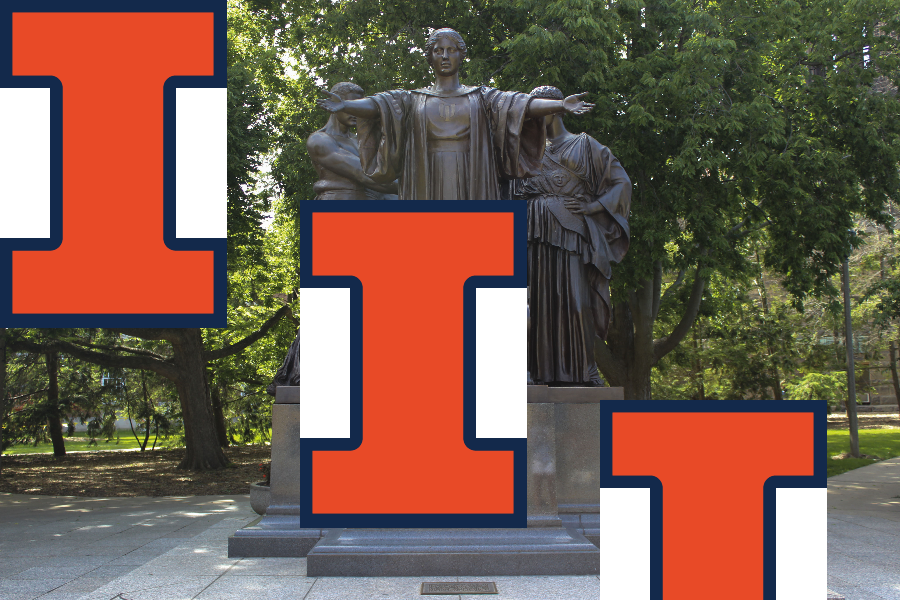
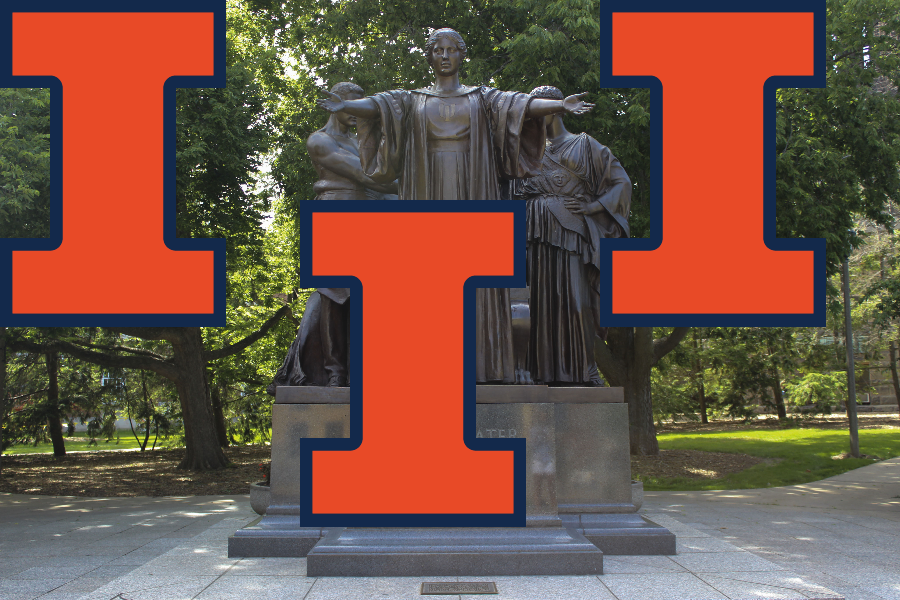
l

diff --git a/mp_stickers/StickerSheet.cpp b/mp_stickers/StickerSheet.cpp
@@ -88,11 +88,29 @@ const StickerSheet & 	StickerSheet::operator= (const StickerSheet &other){
   return *this;
 }
 void 	StickerSheet::changeMaxStickers(unsigned max){
-  Image * copyArr = new Image[imageArrSize];
-  if(int(max)<imageArrSize){
+  Image * newimageArr = new Image[max];
+  int * newxPosition = new int[max];
+  int * newyPosition = new int[max];
+  for(unsigned i=0; i<max; i++){
+    newimageArr[i] = imageArr[i];
+    newxPosition[i] = xPosition[i];
+    newyPosition[i] = yPosition[i];
+  }
+
+  delete [] imageArr;
+  delete [] xPosition;
+  delete [] yPosition;
+
+  imageArr= newimageArr;
+  xPosition = newxPosition;
+  yPosition = newyPosition;
+
+
+  /*if(int(max)<imageArrSize){
     for(int i = 0; i<int(max); i++){
       copyArr[i] = imageArr[i];
     }
+    delete [] imageArr;
     imageArr = new Image[max];
     for(int i = 0; i<int(max); i++){
         imageArr[i] = copyArr[i];
@@ -109,7 +127,7 @@ void 	StickerSheet::changeMaxStickers(unsigned max){
         imageArr[i] = copyArr[i];
     }
     delete [] copyArr;
-  }
+  }*/
 }
 int 	StickerSheet::addSticker(Image &sticker, unsigned x, unsigned y){
   int arrFull = 0;
@@ -149,7 +167,7 @@ bool 	StickerSheet::translate(unsigned index, unsigned x, unsigned y){
 void 	StickerSheet::removeSticker(unsigned index){
 
   //if(xPosition[index]+imageArr[index].width()>baseP
-
+  /*
   for(unsigned i = 0; i < imageArr[index].width(); i++){
     for (unsigned j = 0; j < imageArr[index].height(); j++) {
 
@@ -157,6 +175,9 @@ void 	StickerSheet::removeSticker(unsigned index){
       pixel = basePicture.getPixel(i+ xPosition[i],j+yPosition[index]);
     }
   }
+  */
+  Image emptyImage;
+  imageArr[index]=emptyImage;
 
   xPosition[index]=0;
   yPosition[index]=0;
@@ -167,6 +188,9 @@ void 	StickerSheet::removeSticker(unsigned index){
 }*/
 //making basePicture a public member f*** it
 Image *  StickerSheet::getSticker(unsigned index){
+  if(imageArr[index].width()==0){
+    return NULL;
+  }
   Image * returnImagePtr;
   returnImagePtr = &imageArr[index];
   return returnImagePtr;
@@ -177,7 +201,7 @@ Image 	StickerSheet::render() const{
   for(int i = 0; i < imageArrSize; i++){
     for (int j = 0; j < int(imageArr[i].width()); j++) {
       for (int k = 0; k < int(imageArr[i].height()); k++) {
-
+        //double check if sticker is outside bounds for basePicture
         if((j+xPosition[i])>=(int(basePicture.width())-1)||k+yPosition[i]>=(int(basePicture.height()))-1){
           continue;
         }
@@ -186,8 +210,11 @@ Image 	StickerSheet::render() const{
         if((imageArr[i].getPixel(j,k)).a == 0){
           continue;
         }
+        else if(imageArr[i].width()==0){
+          continue;
+        }
         else{
-        pixel = imageArr[i].getPixel(j,k);
+          pixel = imageArr[i].getPixel(j,k);
         }
       }
     }
